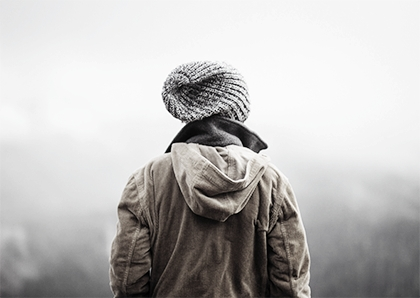
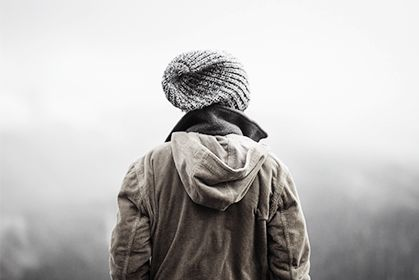
first submit

diff --git a/goit-fe-course/module-03/index.html b/goit-fe-course/module-03/index.html
@@ -5,7 +5,7 @@
   <meta charset="UTF-8">
   <meta name="viewport" content="width=device-width, initial-scale=1.0">
   <meta http-equiv="X-UA-Compatible" content="ie=edge">
-  <link href="https://fonts.googleapis.com/css?family=Playfair+Display|Ubuntu:300" rel="stylesheet">
+  <link href="https://fonts.googleapis.com/css?family=Playfair+Display|Ubuntu:200" rel="stylesheet">
   <link rel="stylesheet" href="css/normalize.css">
   <link rel="stylesheet" href="css/style.css">
   <title>Lifestyle</title>
@@ -24,85 +24,64 @@
       </nav>
     </header>
     <main class="main-content">
-      <article class="article">
-        <img src="img/image-4@2x.jpg" alt="Girl">
-        <a href="#" class="article-link">Lifestyle</a>
-        <h3 class="article-header">More than just a music festival</h3>
-        <p class="article-content">Lorem ipsum dolor sit amet consectetur, adipisicing elit. Magnam quisquam, cumque,
-          totam delectus dignissimos, minus illum ipsum reiciendis quis ducimus velit accusamus quod cum sit voluptas
-          exercitationem. Saepe, repudiandae ex?Sed, tempore nihil ea magni necessitatibus quidem facere exercitationem
-          totam nobis sapiente saepe assumenda beatae sequi quam. Quod, ad iste tempora sed, cum, optio ipsum
-          voluptatem corporis animi error sequi?</p>
-      </article><!--
-      --><article class="article">
-        <img src="img/image-5@2x.jpg" alt="Coffee">
-        <a href="#" class="article-link">Lifestyle</a>
-        <h3 class="article-header">Life tastes better with coffee</h3>
-        <p class="article-content">Lorem ipsum dolor sit amet consectetur, adipisicing elit. Magnam quisquam, cumque,
-          totam
-          delectus dignissimos, minus illum ipsum reiciendis quis ducimus velit accusamus quod cum sit voluptas
-          exercitationem.
-          Saepe, repudiandae ex?Sed, tempore nihil ea magni necessitatibus quidem facere exercitationem totam nobis
-          sapiente
-          saepe assumenda beatae sequi quam. Quod, ad iste tempora sed, cum, optio ipsum voluptatem corporis animi
-          error sequi?</p>
-      </article><!--
-      --><article class="article">
-        <img src="img/image-3@2x.jpg" alt="Bridge and girls">
-        <a href="#" class="article-link">Photodiary</a>
-        <h3 class="article-header">American dream</h3>
-        <p class="article-content">Lorem ipsum dolor sit amet consectetur, adipisicing elit. Magnam quisquam, cumque,
-          totam
-          delectus dignissimos, minus illum ipsum reiciendis quis ducimus velit accusamus quod cum sit voluptas
-          exercitationem.
-          Saepe, repudiandae ex?Sed, tempore nihil ea magni necessitatibus quidem facere exercitationem totam nobis
-          sapiente
-          saepe assumenda beatae sequi quam. Quod, ad iste tempora sed, cum, optio ipsum voluptatem corporis animi
-          error sequi?</p>
-      </article><!--
-      --><article class="article">
-        <img src="img/image-2@2x.jpg" alt="Man in Apls">
-        <a href="#" class="article-link">Music</a>
-        <h3 class="article-header">A day exploring the Alps</h3>
-        <p class="article-content">Lorem ipsum dolor sit amet consectetur, adipisicing elit. Magnam quisquam, cumque,
-          totam
-          delectus dignissimos, minus illum ipsum reiciendis quis ducimus velit accusamus quod cum sit voluptas
-          exercitationem.
-          Saepe, repudiandae ex?Sed, tempore nihil ea magni necessitatibus quidem facere exercitationem totam nobis
-          sapiente
-          saepe assumenda beatae sequi quam. Quod, ad iste tempora sed, cum, optio ipsum voluptatem corporis animi
-          error sequi?</p>
-      </article><!--
-      --><article class="article">
-        <img src="img/image-1@2x.jpg" alt="Man in Apls">
-        <a href="#" class="article-link">Music</a>
-        <h3 class="article-header">Top 10 songs for running</h3>
-        <p class="article-content">Lorem ipsum dolor sit amet consectetur, adipisicing elit. Magnam quisquam, cumque,
-          totam
-          delectus dignissimos, minus illum ipsum reiciendis quis ducimus velit accusamus quod cum sit voluptas
-          exercitationem.
-          Saepe, repudiandae ex?Sed, tempore nihil ea magni necessitatibus quidem facere exercitationem totam nobis
-          sapiente
-          saepe assumenda beatae sequi quam. Quod, ad iste tempora sed, cum, optio ipsum voluptatem corporis animi
-          error sequi?</p>
-      </article><!--
-      --><article class="article">
-        <img src="img/image@2x.jpg" alt="Road">
-        <a href="#" class="article-link">Music</a>
-        <h3 class="article-header">Cold winter days</h3>
-        <p class="article-content">Lorem ipsum dolor sit amet consectetur, adipisicing elit. Magnam quisquam, cumque,
-          totam
-          delectus dignissimos, minus illum ipsum reiciendis quis ducimus velit accusamus quod cum sit voluptas
-          exercitationem.
-          Saepe, repudiandae ex?Sed, tempore nihil ea magni necessitatibus quidem facere exercitationem totam nobis
-          sapiente
-          saepe assumenda beatae sequi quam. Quod, ad iste tempora sed, cum, optio ipsum voluptatem corporis animi
-          error
-          sequi?</p>
-      </article>
-      <button>Load more</button>
+      <section class="articles-section">
+        <h1 hidden>Posts</h1>
+        <article class="article article_mb">
+          <img src="img/image-5@2x.jpg" alt="Girl" height="280" width="420">
+          <a href="#" class="article-link">Lifestyle</a>
+          <h3 class="article-header">More than just a music festival</h3>
+          <p class="article-content">Lorem ipsum dolor sit amet, consectetur adipisicing elit, sed do eiusmod tempor incididunt ut labore et dolore magna
+          aliqua. Ut enim ad minim veniam, quis nostrud exercitation ullamco laboris nisi ut aliquip ex ea commodo consequat.
+          Duis aute irure dolor in</p>
+        </article>
+        <article class="article article_mb">
+          <img src="img/image-4@2x.jpg" alt="Coffe" height="280" width="420" >
+          <a href="#" class="article-link">Lifestyle</a>
+          <h3 class="article-header">Life tastes better with coffee</h3>
+          <p class="article-content">Lorem ipsum dolor sit amet, consectetur adipisicing elit, sed do eiusmod tempor incididunt
+            ut labore et dolore magna
+            aliqua. Ut enim ad minim veniam, quis nostrud exercitation ullamco laboris nisi ut aliquip ex ea commodo consequat.
+            Duis aute irure dolor in</p>
+        </article>
+        <article class="article article_mb">
+          <img src="img/image-3@2x.jpg" alt="Bridge and girls" height="280" width="420">
+          <a href="#" class="article-link">Photodiary</a>
+          <h3 class="article-header">American dream</h3>
+          <p class="article-content">Lorem ipsum dolor sit amet, consectetur adipisicing elit, sed do eiusmod tempor incididunt
+            ut labore et dolore magna
+            aliqua. Ut enim ad minim veniam, quis nostrud exercitation ullamco laboris nisi ut aliquip ex ea commodo consequat.
+            Duis aute irure dolor in</p>
+        </article>
+        <article class="article article_mb">
+          <img src="img/image-2@2x.jpg" alt="Man in Apls" height="280" width="420">
+          <a href="#" class="article-link">Music</a>
+          <h3 class="article-header">A day exploring the Alps</h3>
+          <p class="article-content">Lorem ipsum dolor sit amet, consectetur adipisicing elit, sed do eiusmod tempor incididunt
+            ut labore et dolore magna
+            aliqua. Ut enim ad minim veniam, quis nostrud exercitation ullamco laboris nisi ut aliquip ex ea commodo consequat.
+            Duis aute irure dolor in</p>
+        </article>
+        <article class="article">
+          <img src="img/image-1@2x.jpg" alt="Girl in hat"  height="280" width="420">
+          <a href="#" class="article-link">Music</a>
+          <h3 class="article-header">Top 10 songs for running</h3>
+          <p class="article-content">Lorem ipsum dolor sit amet, consectetur adipisicing elit, sed do eiusmod tempor incididunt
+            ut labore et dolore magna
+            aliqua. Ut enim ad minim veniam, quis nostrud exercitation ullamco laboris nisi ut aliquip ex ea commodo consequat.
+            Duis aute irure dolor in</p>
+        </article>
+        <article class="article">
+          <img src="img/image@2x.jpg" alt="Road" height="280" width="420">
+          <a href="#" class="article-link">Music</a>
+          <h3 class="article-header">Cold winter days</h3>
+          <p class="article-content">Lorem ipsum dolor sit amet, consectetur adipisicing elit, sed do eiusmod tempor incididunt
+            ut labore et dolore magna
+            aliqua. Ut enim ad minim veniam, quis nostrud exercitation ullamco laboris nisi ut aliquip ex ea commodo consequat.
+            Duis aute irure dolor in</p>
+        </article>
+      </section>
+      <button class="btn">Load more</button>
     </main>
   </div>
 </body>
-
 </html>

diff --git a/goit-fe-course/module-03/css/style.css b/goit-fe-course/module-03/css/style.css
@@ -8,10 +8,20 @@ html {
   box-sizing: border-box;
 }
 
+* {
+  margin: 0;
+  padding: 0;
+}
+
 *,
 *::before,
 *::after {
   box-sizing: inherit;
+}
+
+body, a {
+    font-family: 'Playfair Display', serif;
+    color: #626262;
 }
 
 .wrapper {
@@ -19,16 +29,9 @@ html {
   margin: 0 auto;
 }
 
-.wrapper, a {
-  color: #626262;
-}
-
 .header {
-  padding: 73px 0 0 0;
-}
-
-.main-content {
-  margin: 100px 0 0 0;
+  padding: 75px 0 0 0;
+  margin: 0 0 97px 0;
 }
 
 .nav-list {
@@ -53,13 +56,20 @@ html {
 }
 
 .nav-link {
-  font-family: 'Playfair Display', serif;
   text-transform: uppercase;
   font-size: 14px;
+  line-height: 24px;
+  vertical-align: top;
 }
 
-.nav-link:hover {
+.nav-link:hover,
+.nav-link:focus {
   color: #03A9F4;
+}
+
+.articles-section {
+  font-size: 0px;
+  margin-bottom: 55px;
 }
 
 .article {
@@ -67,26 +77,41 @@ html {
   display: inline-block;
 }
 
-.article:nth-child(odd) {
+.article:nth-child(even) {
   margin-right: calc(900px - 420px * 2);
 }
 
-.article-content,
-.article-link {
-  font-family: 'Ubuntu', sans-serif;
+.article_mb {
+  margin-bottom: 134px;
 }
 
 .article-link {
   text-transform: uppercase;
-  font-weight: 600;
   color: #B4AD9E;
+  font-family: 'Ubuntu', sans-serif;
+  font-size: 14px;
+  padding-top: 30px;
+  margin-bottom: 20px;
 }
 
 .article-header {
   font-size: 30px;
-  font-family: 'Playfair Display', serif;
+  margin-bottom: 31px;
 }
 
-/* todo : 1. Установить шрифты глобально*/
-/* todo : 2. Поменять стить заголовков статьи*/
-/* todo : 3. Поменять текст параграфов*/
+.article-content {
+  font-size: 14px;
+  line-height: 24px;
+}
+
+.btn {
+  display: block;
+  margin: 0 auto;
+  width: 164px;
+  height: 60px;
+  line-height: 60px;
+  text-align: center;
+  background: transparent;
+  border: 1px solid #626262;
+}
+
